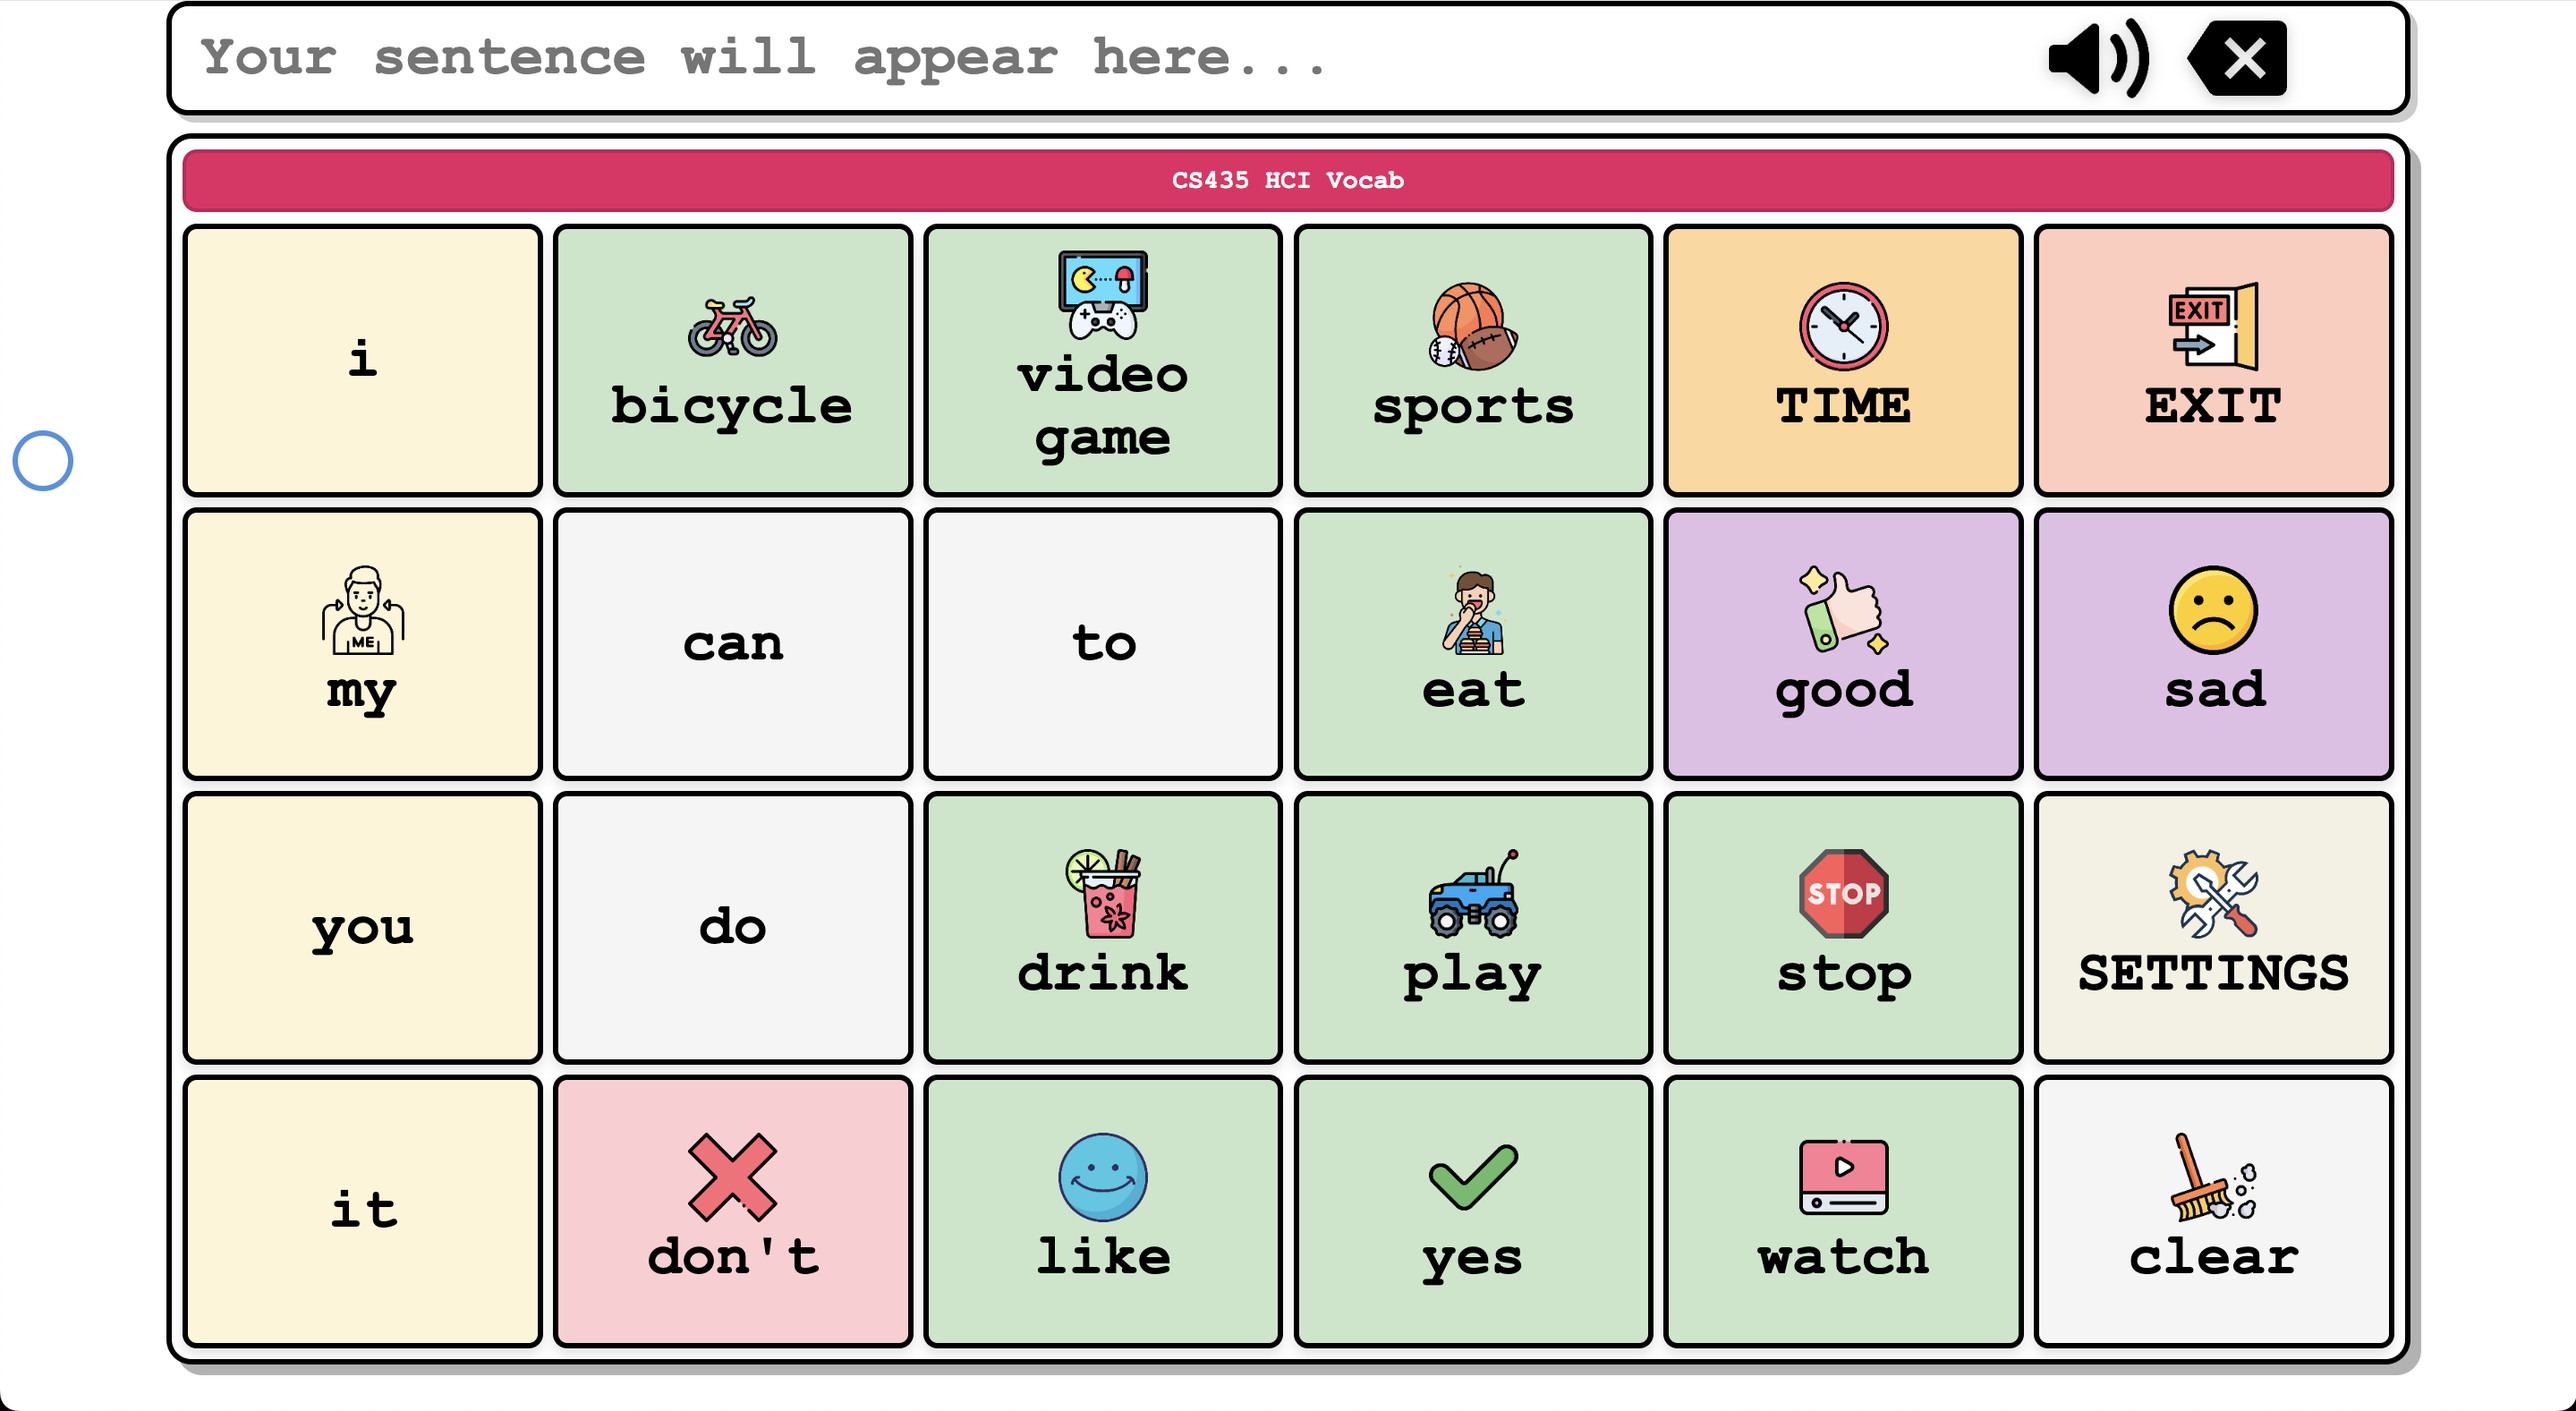
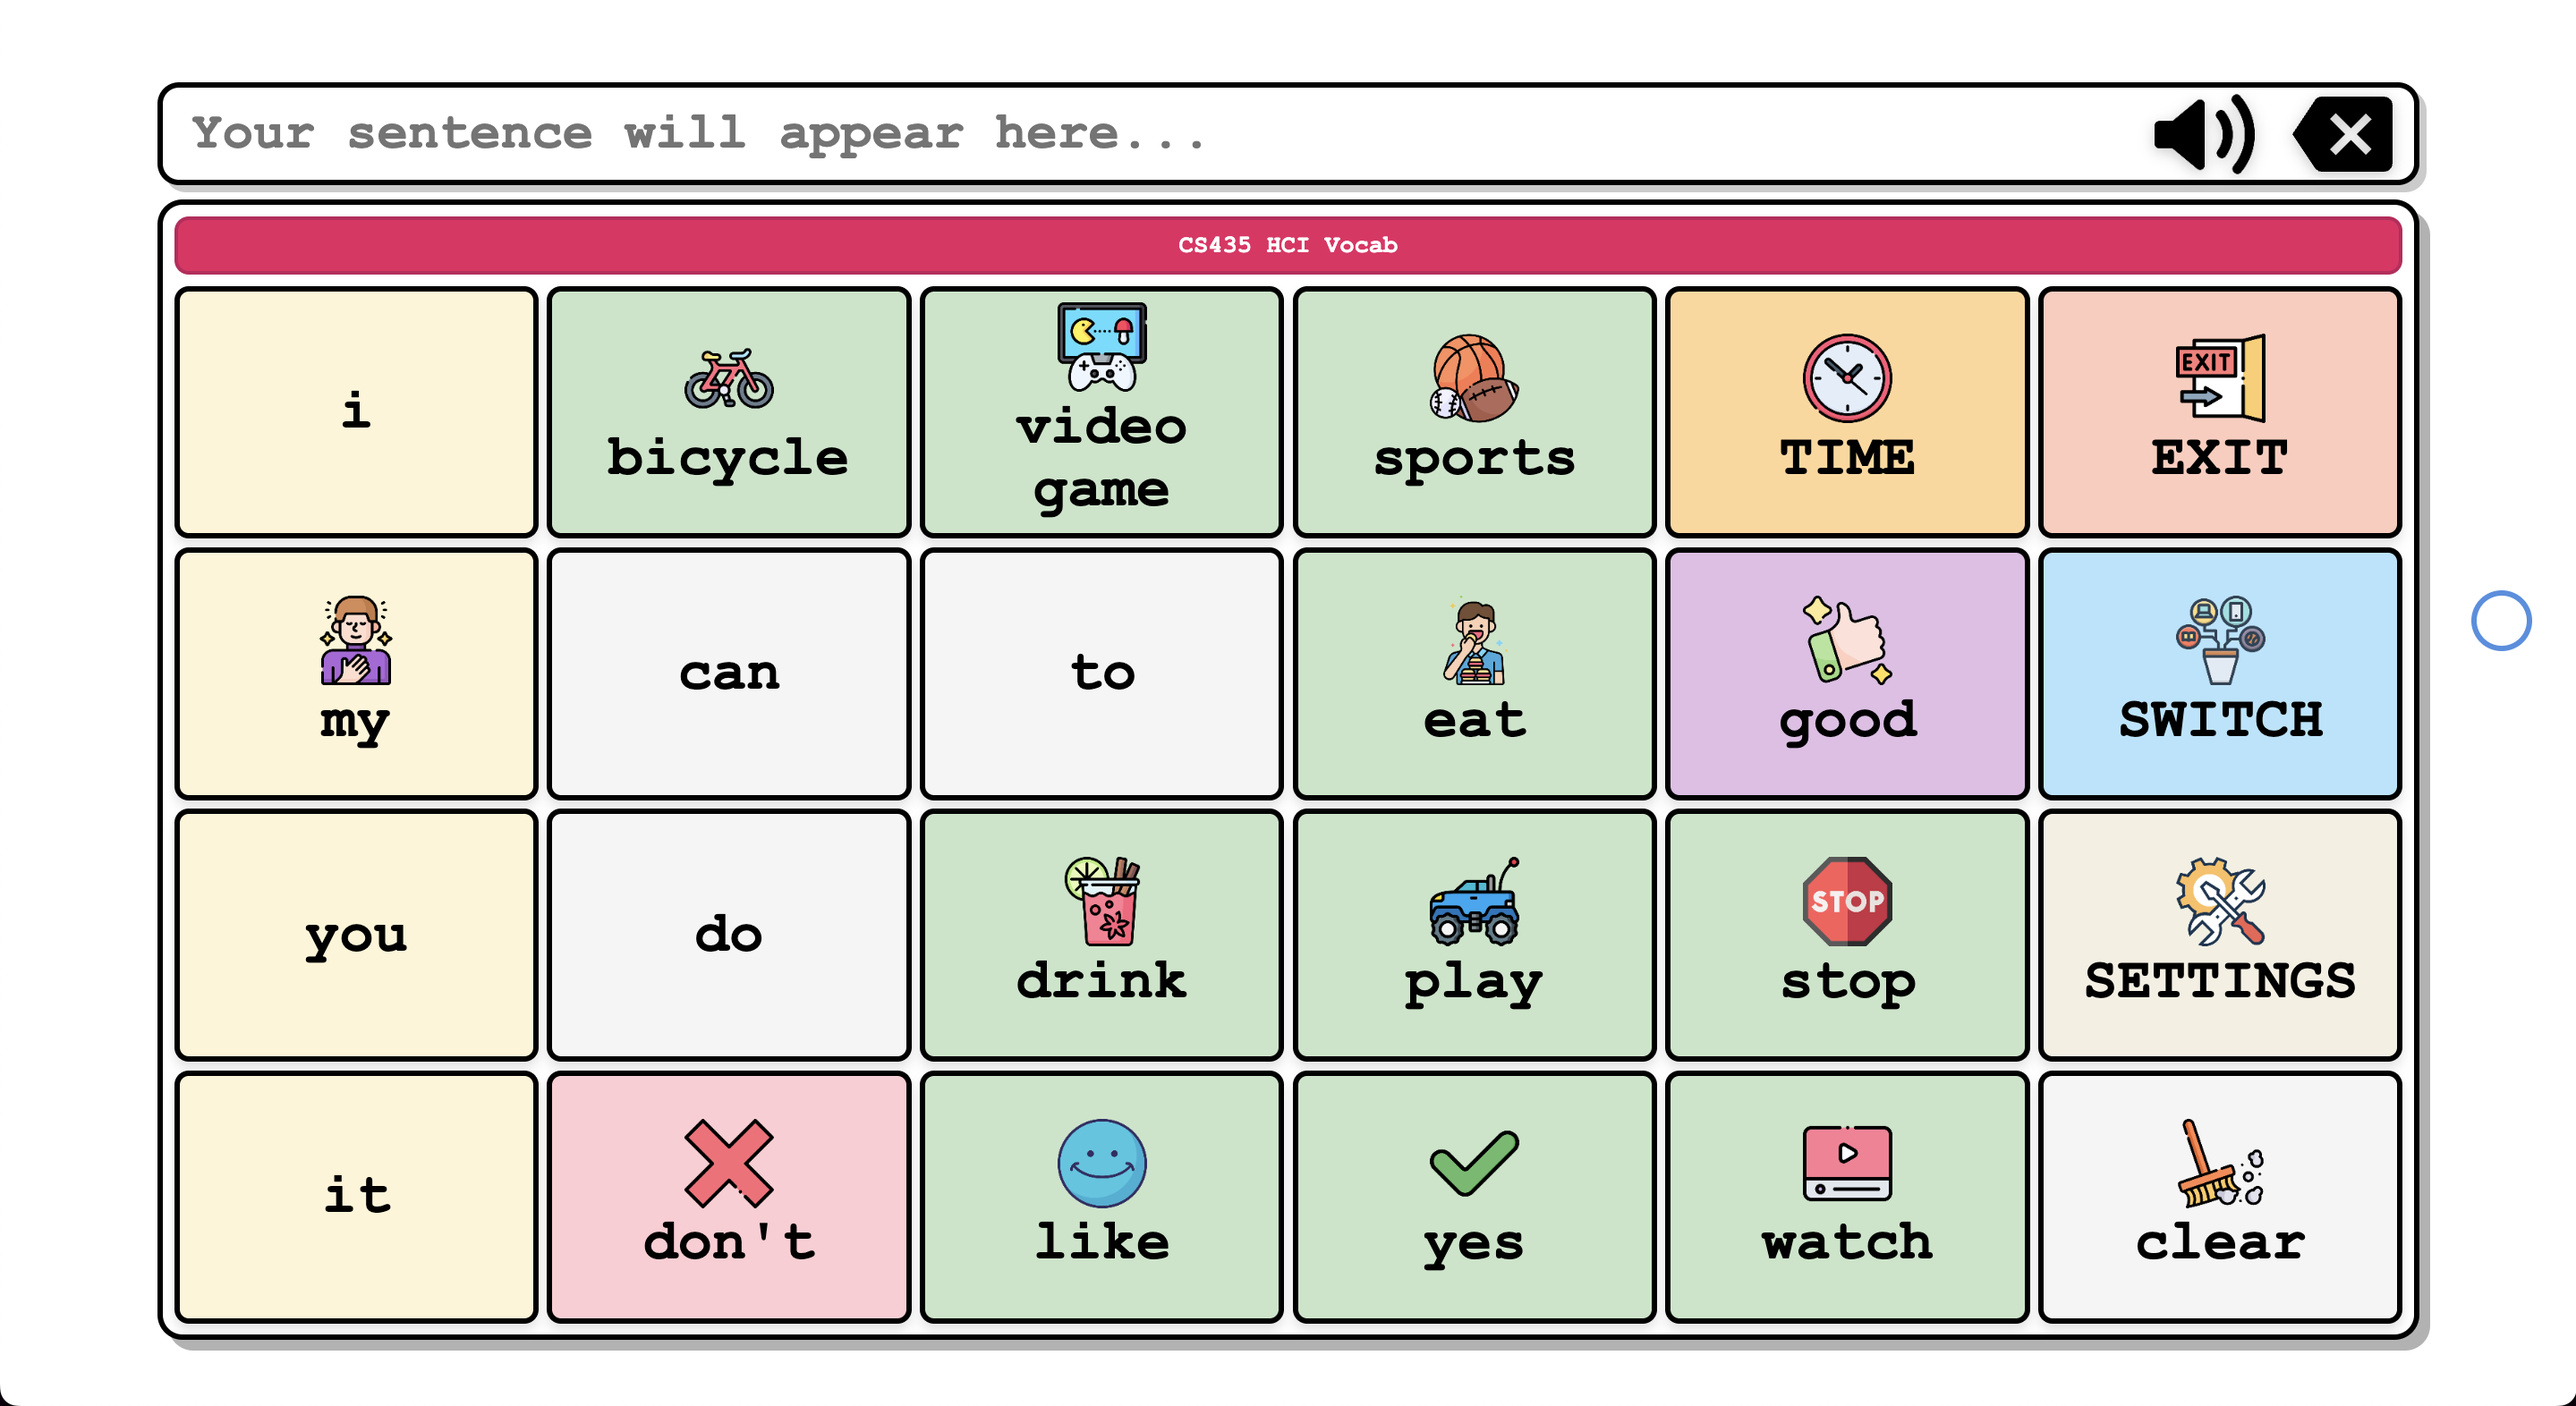
readme update and llm keyboard bug fixed for reserved keys

diff --git a/App/src/components/KeyboardWithInputLLM.jsx b/App/src/components/KeyboardWithInputLLM.jsx
@@ -41,11 +41,9 @@ import LoveIcon from "../icons/love.png";
 import ToCallIcon from "../icons/phone-call.png";
 import ListenIcon from "../icons/listen.png";
 import ChangeIcon from "../icons/change.png";
-import EyeIcon from "../icons/eye-care.png";
 import MicIcon from "../icons/voice-recognition.png";
 import HeadIcon from "../icons/face-id.png";
 import ButtonIcon from "../icons/button.png";
-import AiIcon from "../icons/ai.png";
 
 const BACKSPACE_DWELL_TIME = 2000; // 2 seconds for backspace
 
@@ -875,7 +873,7 @@ export default function KeyboardWithInputLLM({ onClose, audioEnabled }) {
   };
 
   // Reserved keys that should always be present
-  const RESERVED_KEYS = ["time", "exit", "settings", "home", "clear"];
+  const RESERVED_KEYS = ["time", "exit", "settings", "home", "clear", "switchmodality"];
 
   // Get important keys from default layout
   const getReservedKeys = () => {
@@ -933,6 +931,10 @@ export default function KeyboardWithInputLLM({ onClose, audioEnabled }) {
           // First row (positions 0-5): keep same as default
           if (i < 6) {
             llmLayout.push(firstRow[i]);
+          }
+          // Position 11 (row 2, col 6): SWITCH
+          else if (i === 11) {
+            llmLayout.push(reservedKeys.find((k) => k.id === "switchmodality"));
           }
           // Position 17 (row 3, col 6): SETTINGS
           else if (i === 17) {

diff --git a/README.md b/README.md
@@ -24,12 +24,16 @@ _LLM-powered predictions using Xenova/distilgpt2 from [huggingface/transformers.
 ![](./assets/5-llm.png)
 _Blue keys represent the LLM's next word predictions_
 
+![](./assets/5-llm-settings.png)
+![](./assets/5-llm-switch.png)
+
 ### 2. Speech Recognition
 
 ![](./assets/6-speech.png)
 _Speech-to-text using "Xenova/whisper-tiny.en" and text-to-speech using Web Speech API_
 ![](./assets/7-speech.png)
 ![](./assets/8-speech.png)
+![](./assets/8-speech-switch.png)
 
 ### 3. Head Tracking
 
@@ -40,12 +44,16 @@ _Speech-to-text using "Xenova/whisper-tiny.en" and text-to-speech using Web Spee
 ![](./assets/12-head.png)
 _Head movement-based cursor control using [Tracky-Mouse API](https://github.com/1j01/tracky-mouse)_
 
-![](./assets/10-head.png)
+![](./assets/12-head-switch.png)
 
 ### 4. Switch Control
 
 Single-switch scanning interface for accessibility. Auto-scanning through keyboard rows with individual key highlighting.
 ![](./assets/13-switch.png)
+
+![](./assets/1-switch.gif)
+
+![](./assets/1-switch-gif.gif)
 
 ![](./assets/14-switch.png)
 
@@ -56,3 +64,5 @@ Single-switch scanning interface for accessibility. Auto-scanning through keyboa
 ![](./assets/17-switch.png)
 
 ![](./assets/18-switch.png)
+
+![](./assets/19-switch.png)
